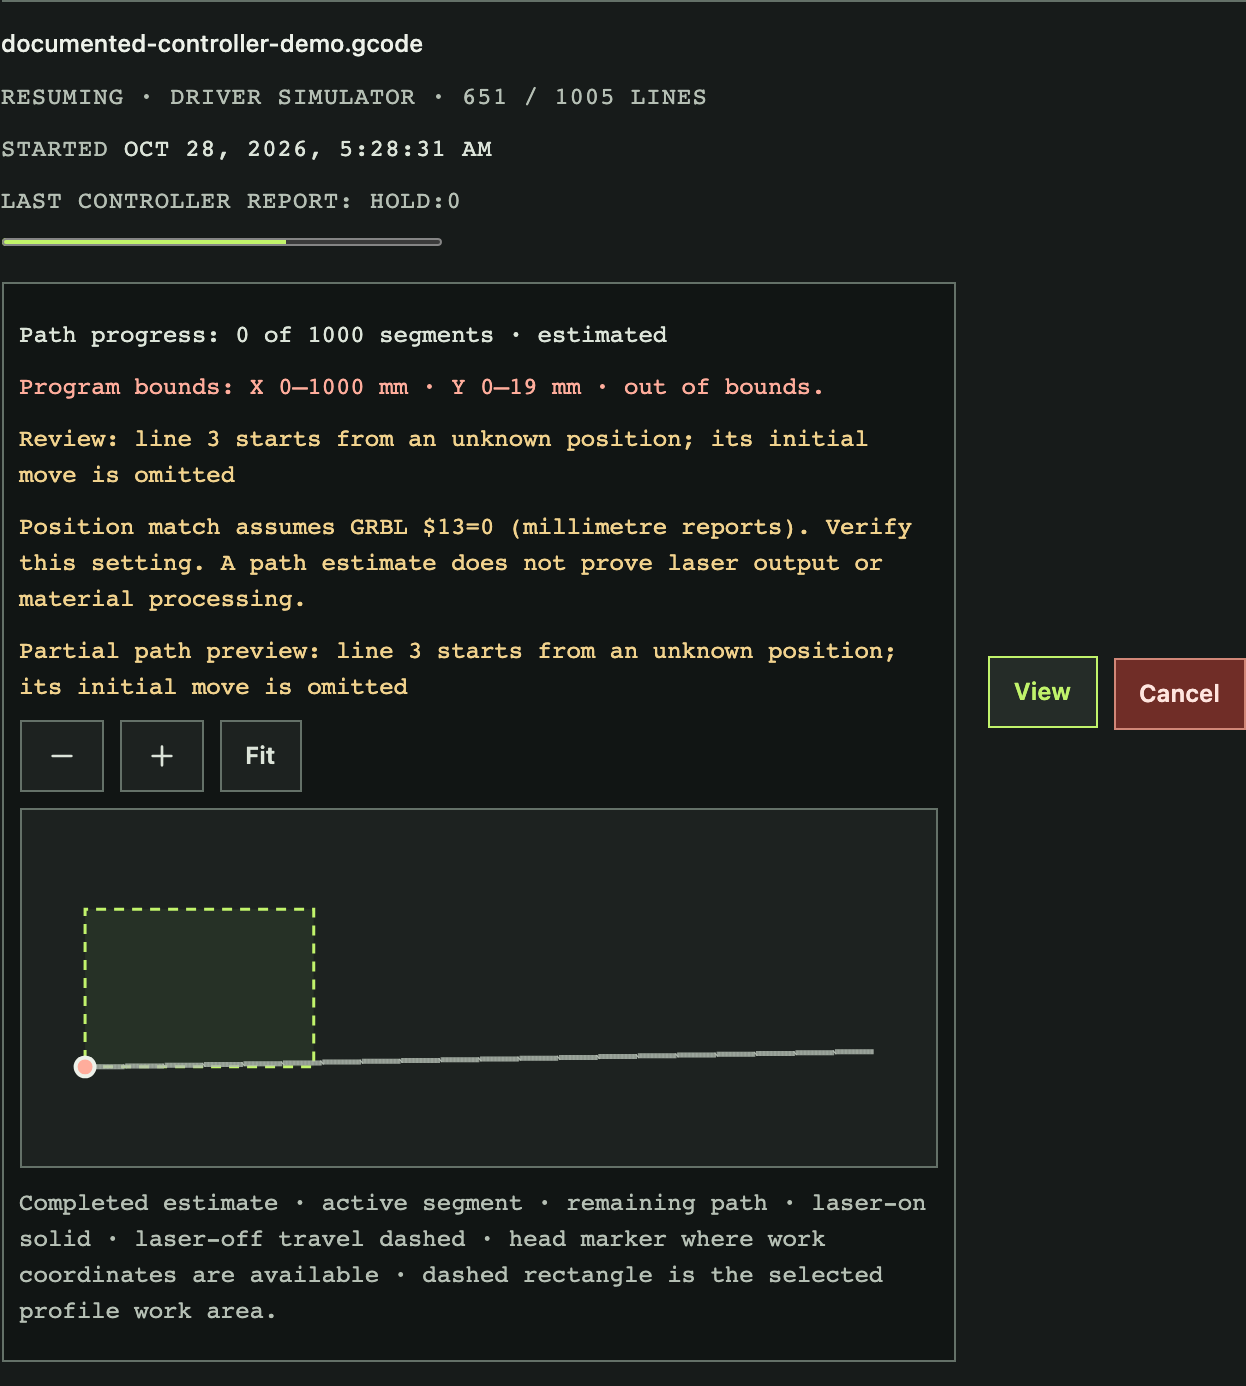
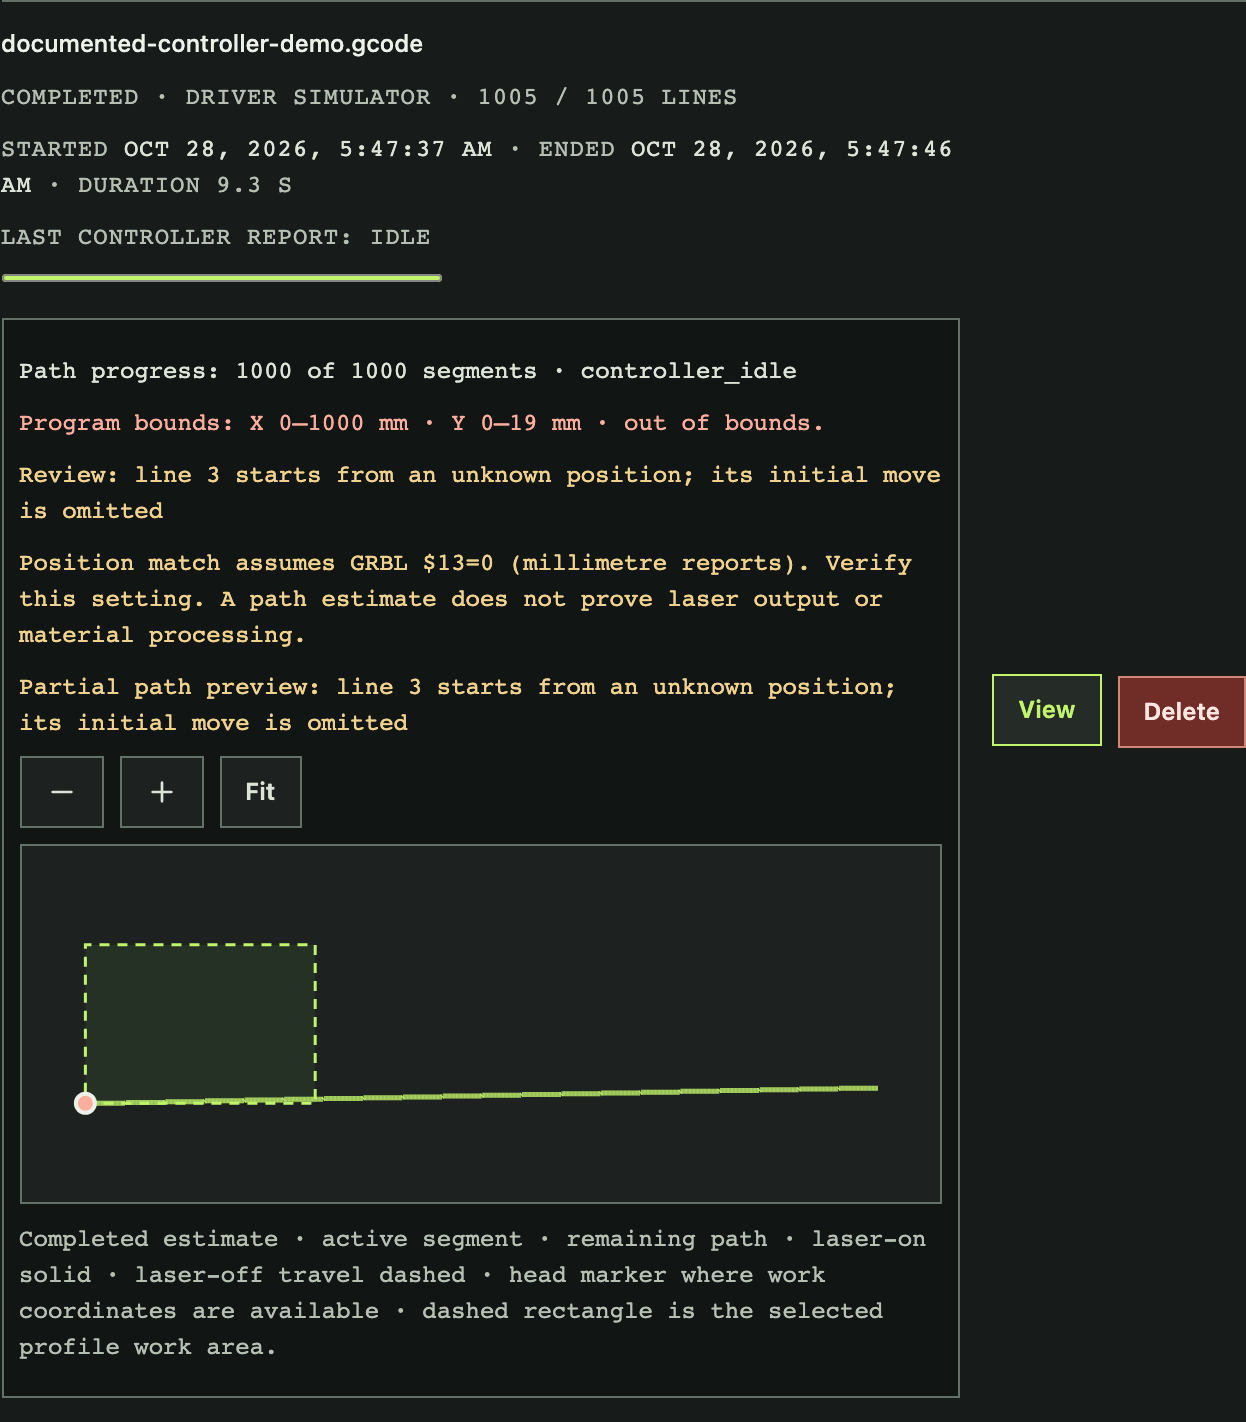
fix: capture completed job screenshot reliably

diff --git a/e2e/capture-docs.js b/e2e/capture-docs.js
@@ -401,9 +401,11 @@ async function main() {
     await page.locator('#operator-confirmation').check();
     await row.getByRole('button', { name: /^Resume / }).click();
     await expect(page.locator('#operator-confirmation')).not.toBeChecked();
-    await expect(row).toContainText(/completed/i, { timeout: 120000 });
+    await expect(row.locator('.job-info > span').first()).toContainText(/^completed\b/i, { timeout: 120000 });
     await row.getByRole('button', { name: /^View / }).click();
-    await captureElement(page, '#job-list .job-item', 'operator-console-completed.png');
+    // Job polling rebuilds each row every two seconds. Capture the persistent
+    // list container so a refresh cannot detach the screenshot target.
+    await captureElement(page, '#job-list', 'operator-console-completed.png');
     const history = page.getByRole('list', { name: 'Job event history' });
     // A short run can finish before a Run report, recording resuming → completed.
     await expect(history.getByRole('listitem').last().locator('.job-history-states')).toHaveText(/^(running|resuming) → completed$/, { timeout: 10000 });
